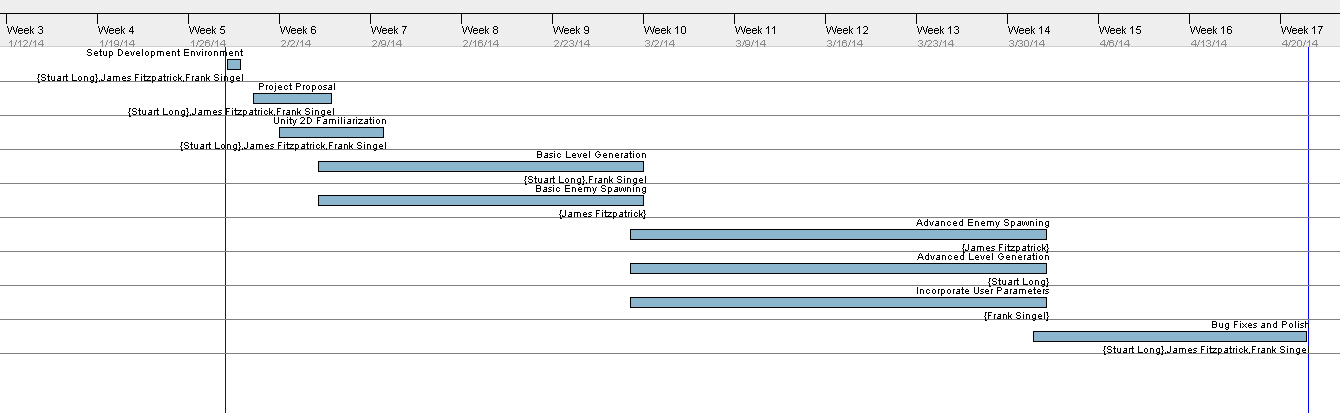
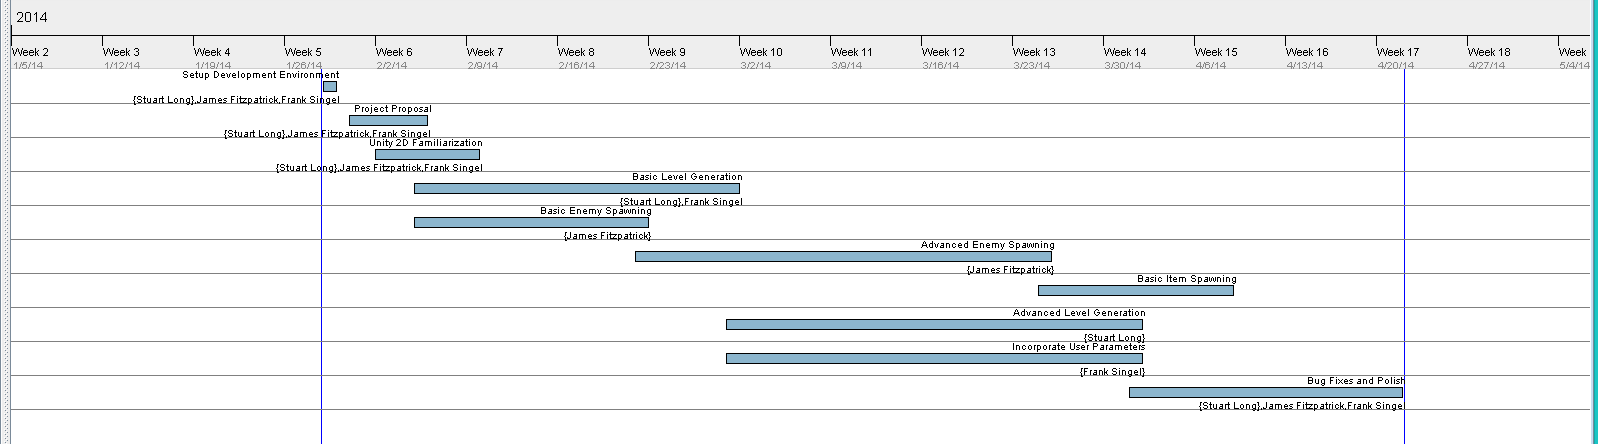
Gantt and gitignore updates

diff --git a/Documentation/Project Proposal/proposal.tex b/Documentation/Project Proposal/proposal.tex
@@ -37,9 +37,14 @@ February 3, 2014\\
 \begin{tabularx}{\textwidth }[t]{|l|l|Y|l|}
 \hline
 \bfseries Name & \bfseries Date & \bfseries Reasons for Change & \bfseries Version \\ \hline
+Stuart Long & 2/3/14 & Initial Abstract / Introduction / User Interface / Project Management & 1.0 \\ \hline
+James Fitzpatrick & 2/3/14 & Initial Application / Methodology & 1.0 \\\hline
+Frank Singel & 2/3/14 & Initial Software Design & 1.0\\\hline
 \end{tabularx}
 \end{table}
 \FloatBarrier
+\newpage
+\tableofcontents
 \newpage
 \section{Abstract}
 \textit{Chocolate Box} will be a helpful tool for video game developers. Its goal is to provide an easy-to-use software library for any game developers working with the common game engine, Unity. It will allow developers to create unique levels purposed towards whatever game they are currently developing. These levels will be pseudo-random, so each level created will be unique. This tool will enable developers to create games with an infinite variety of levels which is perfect for arcade-like games. 
@@ -57,7 +62,7 @@ Unity 4.3 was released a few short months ago in late 2013. One the major new fe
 \subsection{Related Work}
 There currently does not exist any form of library to provide procedural level generation for Unity in either a 2D or 3D form. However, procedural level generation has been done for games such as \textit{Minecraft}. Such games are not open sourced and were not developed through Unity. 
 \\\\
-Two of the members of the \textit{Chocolate Box} team have experience with Unity. Stuart Long helped developed a fully functional game, \textit{Gumdrop Gauntlet}, in Unity. James Fitzpatrick has served as the design and programming leads for a number of Unity game demos, relevantly including a 2D puzzle-platformer, and a roleplaying game (RPG) in the style of Final Fantasy and Dragon Warrior. Frank Singel has the most experience on the team in the area of AI which will prove useful when creating the generation algorithms.
+Two of the members of the \textit{Chocolate Box} team have experience with Unity. Stuart Long helped developed a fully functional game, \textit{Gumdrop Gauntlet}, in Unity. James Fitzpatrick has served as the design and programming leads for a number of Unity game demos, relevantly including a 2D puzzle-platformer, and a roleplaying game (RPG) in the style of \textit{Final Fantasy} and \textit{Dragon Warrior}. Frank Singel has the most experience on the team in the area of AI which will prove useful when creating the generation algorithms.
 \subsection{Goals}
 Below is described in detail the full feature set of \textit{Chocolate Box}, the team's methodology in developing it, and this project's software requirements. By the end of February, a month from now, the team expects to be able to generate a rudimentary level and to spawn enemies in it in a rudimentary fashion.
 
@@ -142,11 +147,11 @@ One of the largest challenges for this project is for the \textit{Chocolate Box}
 
 \section{Software Design}
 \section{Project Management}
-The \textit{Chocolate Box} team is small and familiar, allowing for a more project management schema. Stuart Long is the project manager and he will be responsible for the overall project management. Each member of the team will have set responsibilities, but the team as a whole will collaborate on any challenges or problems that arise if need be. The team will be using the on-line task tracking system Trello to keep track of project tasks and bugs. A private git repository on GitHub has been secured to use as the version control system for the project. Below is a Gantt chart outlining the broad goals and time-line of the project that the team have so far determined.
+The \textit{Chocolate Box} team is small and familiar, allowing for a more project management schema. Stuart Long is the project manager and he will be responsible for the overall project management. Each member of the team will have set responsibilities, but the team as a whole will collaborate on any challenges or problems that arise if need be. The team will be using the on-line task tracking system Trello to keep track of project tasks and bugs. A private git repository on GitHub has been secured to use as the version control system for the project. Below is a Gantt chart outlining the broad goals and time-line of the project that the team have so far determined.\\[.5cm]
 \centerline{\includegraphics[width=7in]{GanttSS.png}}
 \FloatBarrier
 \section{User Interface}
-\textit{Chocolate Box} will be fully integrated into Unity. Thus it will not requires its own User Interface. Instead, it will be used through Unity's own interface, specifically the part known as the Inspector. A mock up of this interface can be seen on the right-hand side of the figure below.
+\textit{Chocolate Box} will be fully integrated into Unity. Thus it will not requires its own User Interface. Instead, it will be used through Unity's own interface, specifically the part known as the Inspector. A mock up of this interface can be seen on the right-hand side of the figure below.\\
 
 \centerline{\includegraphics[width=7in]{UnitySS.png}}
 \FloatBarrier
